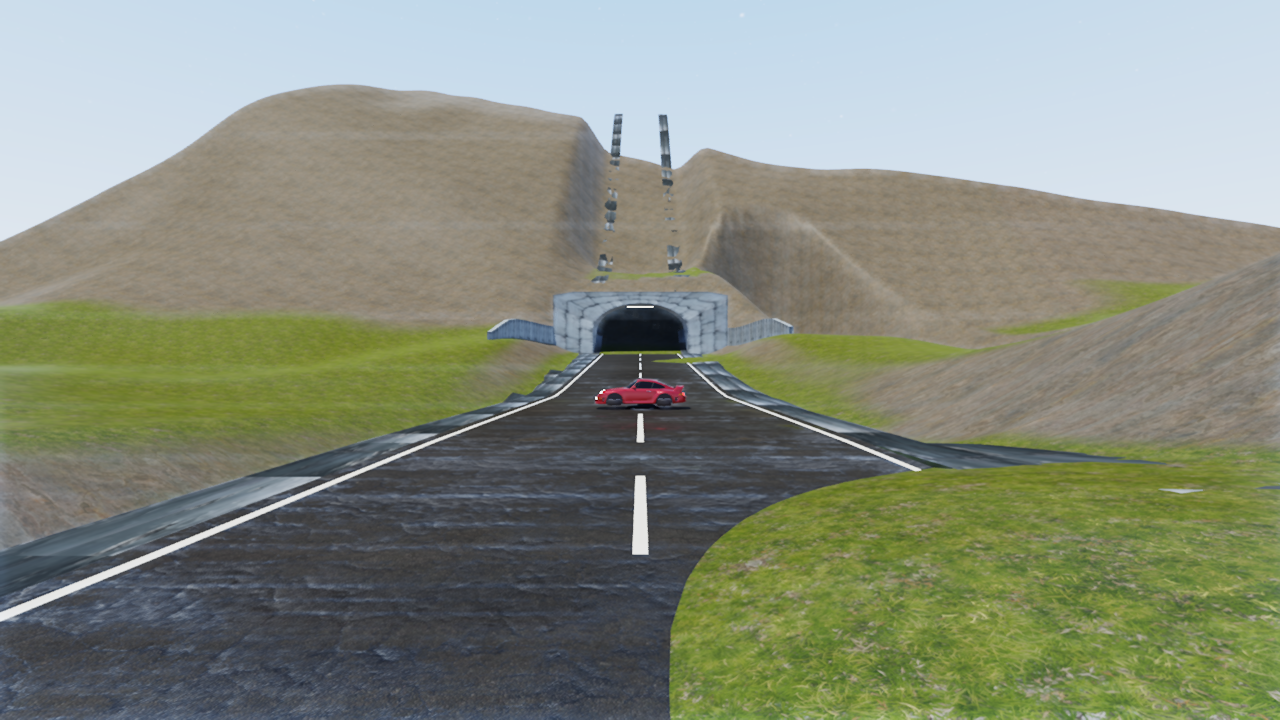
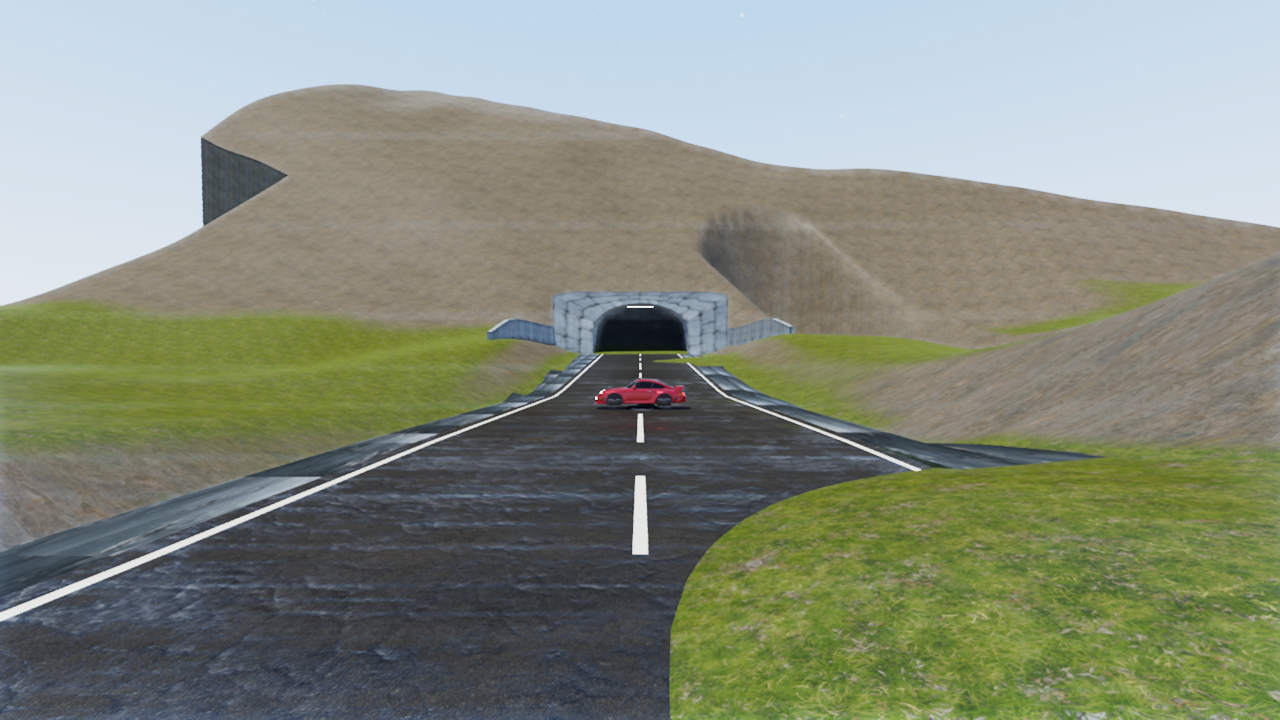
fix(tunnels): delete the slope strips and the road-shaped trench across the summit
Two defects from Tim's list, both mine, both found by reading the code rather than
guessing at the pixels.

1. THE ROAD-SHAPED CUTOUT ACROSS THE MOUNTAIN TOP. The bored branch set
   depth = min(coverAvail - kBoreCut, kTcMaxScar), reasoning that surplus above the
   crown should be shaved and the cap would keep 'the ridge a dip instead of a
   canyon'. That reasoning holds for the 55 m hummock it was written against. Under
   the new 124 m mountain coverAvail is enormous, so the term pinned at kTcMaxScar
   and the corridor gouged a kTcMaxScar-deep trench ALONG THE SUMMIT. A tunnel does
   not carve the mountain above it: on a bored reach the tube already fits under
   natural ground, so the correct excavation is zero. depth = 0.

2. THE TWO STRIPS CLIMBING THE SLOPE. I had guessed tile skirts in the last commit.
   Wrong — they were MY OWN embankment from e0edbfcd. The batter clamps every step
   with max(y, ground) so it can never sink below grade. Correct for a downhill
   FILL; catastrophic in a CUT, where the ground beside the road is ~100 m higher
   and that max() drives the shoulder strip straight up the hillside. Two rails,
   two strips, exactly as seen. Guarded now: no batter where the ground already
   sits at or above the road, because there a cutting face IS the terrain.

Removing the trench did not remove the strips, which is what proved they were
independent and sent me to the embankment code.
[…]

diff --git a/app/tunnel_corridor.cpp b/app/tunnel_corridor.cpp
@@ -399,7 +399,20 @@ const TunnelRoute* registerTunnelCorridorFor(const TunnelSpec& spec) {
             // BORED reach: take only the surplus above the tube's crown + soil,
             // and never more than kTcMaxScar — that cap is what keeps the ridge
             // a dip instead of a canyon (BL_WORLD_PORT.md §4.3b).
-            n.depth = std::min(coverAvail - kBoreCut, kTcMaxScar);
+            // NOTHING TO REMOVE. The tube already fits under the natural ground
+            // here, so the corridor must not excavate at all.
+            //
+            // This previously took `min(coverAvail - kBoreCut, kTcMaxScar)`,
+            // reasoning that the surplus above the crown should be shaved and the
+            // cap would keep "the ridge a dip instead of a canyon". That holds for
+            // a 55 m hummock, where coverAvail is small. Under a 124 m mountain
+            // coverAvail is enormous, so the term pinned at kTcMaxScar and the
+            // corridor gouged a kTcMaxScar-deep ROAD-SHAPED TRENCH along the
+            // summit — visible as a cutout across the mountain top, with its own
+            // walls and tile skirts showing as dark strips down the slope.
+            //
+            // A tunnel does not carve the mountain above it. Depth 0.
+            n.depth = 0.0f;
             n.bore = true;
         } else {
             // OPEN CUTTING: clear the HIGHEST ground across the band down to the
@@ -738,6 +751,24 @@ bool TunnelCorridorWorld::build(Scene& scene, x3::rhi::IRenderDevice& device,
                 const Frame& a = roadFrames[j]; const Frame& b = roadFrames[j+1];
                 for (int side = -1; side <= 1; side += 2) {
                     const float sg = (float)side;
+                    // FILL ONLY — never in a cutting. The batter exists to bridge
+                    // road level DOWN to a shoulder that has fallen away. Each step
+                    // clamps with max(y, ground) so it cannot sink below grade,
+                    // which is correct on a downhill fill and catastrophic in a
+                    // CUT: under the mountain the ground beside the road is ~100 m
+                    // higher, so that max() drove the strip straight up the
+                    // hillside and drew two concrete rails climbing the slope
+                    // above the portal. Where the ground is already at or above
+                    // the road, there is nothing to fill — the cutting face IS
+                    // the terrain.
+                    {
+                        const float latTest = sg * (hw + kShoulderW);
+                        const float gA = terrainHeightAtWorld(a.p[0] + right[0]*latTest,
+                                                              a.p[2] + right[2]*latTest);
+                        const float gB = terrainHeightAtWorld(b.p[0] + right[0]*latTest,
+                                                              b.p[2] + right[2]*latTest);
+                        if (gA >= a.p[1] && gB >= b.p[1]) continue;
+                    }
                     // Track the running height of the batter on each rail.
                     float ya = a.p[1] + kSlabProud, yb = b.p[1] + kSlabProud;
                     float oa = 0.0f;

diff --git a/docs/design/TUNNEL_NEXT.md b/docs/design/TUNNEL_NEXT.md
@@ -127,6 +127,38 @@ any code. Captured here so the request is not lost.
 
 ---
 
+## 4. TIM'S DEFECT LIST (2026-08-13, approach_mountain.png)
+
+Seven called out. Status after 8537fbed + the follow-up:
+
+- [x] **Strips up the slope — DELETED.** Not tile skirts (my earlier guess) and not
+      the summit trench. It was MY OWN embankment from e0edbfcd: the batter clamps
+      each step with `max(y, ground)` so it cannot sink below grade, which is right
+      for a downhill FILL and catastrophic in a CUT. Under the mountain the ground
+      beside the road is ~100 m higher, so that max() drove the shoulder strip
+      straight up the hillside — two rails, two strips. Now guarded: no batter
+      where the ground is already at or above the road, because a cutting face IS
+      the terrain.
+- [x] **Road-shaped cutout across the mountain top — FIXED.** The bored branch took
+      `min(coverAvail - kBoreCut, kTcMaxScar)`. Fine for a 55 m hummock; under a
+      124 m mountain coverAvail is enormous so it pinned at kTcMaxScar and gouged a
+      trench along the summit. A tunnel does not carve the mountain above it —
+      depth is now 0 on a bored reach.
+- [ ] **NEW: dark angular wedge on the upper-left slope.** Appeared once the summit
+      trench was removed. Suspect the FAR portal's headwall/wing wall now poking
+      through the hill that covers it. Not investigated.
+- [ ] **Car is too small and faces the wrong way.** Showcase prop in host_tunnel.
+- [ ] **Mountain is too smooth** — needs jagged peaks, not a dune. `ridgeExp` and
+      `jagAmp` on the tunnel-ridge RangeDef are the levers (currently 1.7 / 26).
+- [ ] **Mountain has no MOUNTAIN COLOURS** — wants bluish dark rock, snow caps,
+      trees. The splat blends by height/slope; snow exists as a layer
+      (`terrain_snow`) but the ridge tops out ~124 m, far below wherever the snow
+      band starts. Needs the splat bands retuned for a peak this height, plus
+      vegetation scatter on the flanks.
+- [ ] **Strange non-concrete artifact at the roadside** — may be resolved by the
+      fill-only guard above; needs a fresh look.
+- [ ] **Grass or rock ON the road** — unconfirmed, needs a close capture.
+
 ## Sources
 * The Need for Speed — https://en.wikipedia.org/wiki/The_Need_for_Speed
 * Old School Gamer Magazine — https://www.oldschoolgamermagazine.com/the-need-for-speed-3do/
